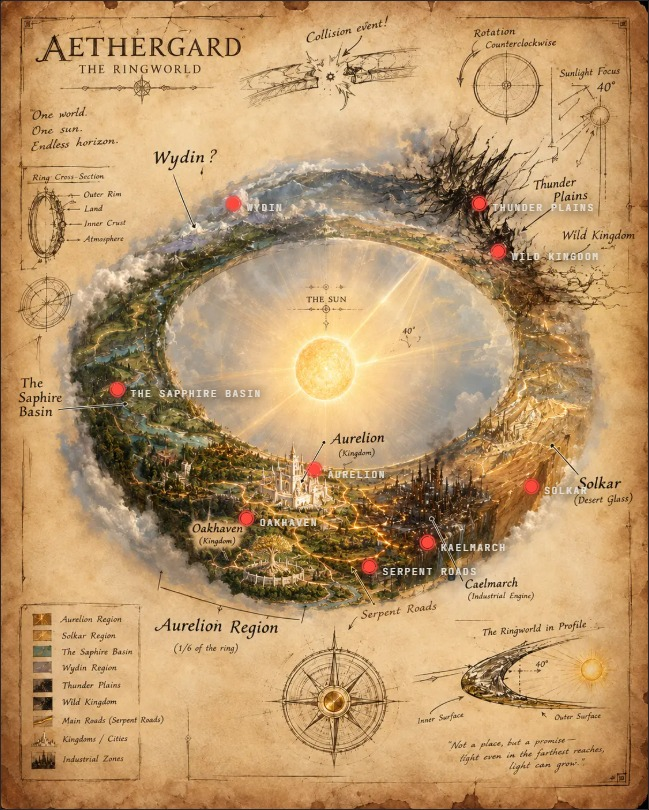
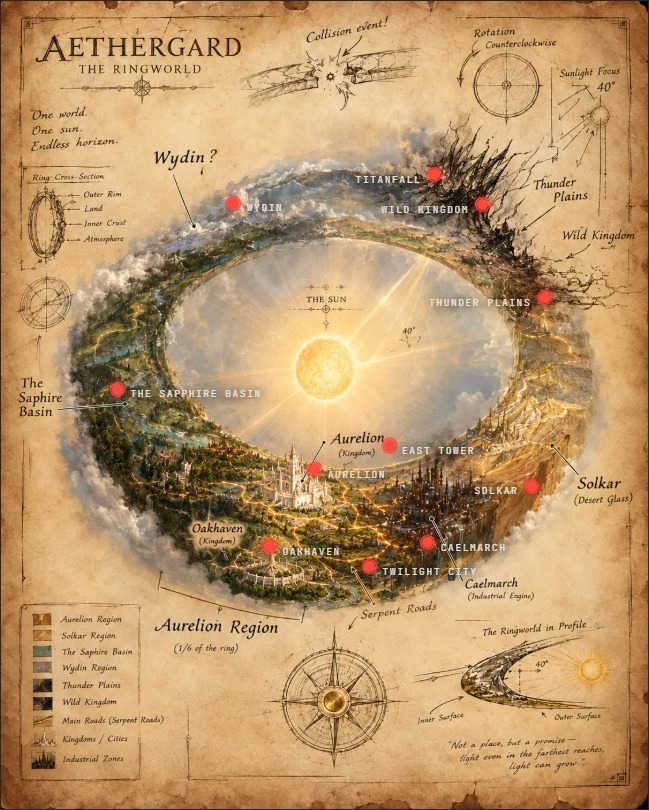
Put Titanfall on the broken rim and stop the edge labels clipping
The flat chart now reads Solkar, then the Thunder Plains as the storm
border, then the Wild Kingdom, matching the atlas. Titanfall sits in the
shattered material on the ring's upper right — the impact that opened it.
The "Collision event!" drawing is a margin schematic, not a place.

Pins past two thirds across put their label on the left, since the stage
clips anything running off the right edge.

diff --git a/tools/merged.js b/tools/merged.js
@@ -1,0 +1,53 @@
+let puppeteer; const path=require('path');
+const OUT=path.join(__dirname,'shots12'); require('fs').mkdirSync(OUT,{recursive:true});
+const sleep=ms=>new Promise(r=>setTimeout(r,ms));
+(async()=>{
+  puppeteer=(await import('puppeteer')).default;
+  const b=await puppeteer.launch({args:['--no-sandbox','--font-render-hinting=none']});
+  const out={}; const errs=[];
+  const p=await b.newPage();
+  p.on('pageerror',e=>errs.push('HOME JS: '+e.message));
+  p.on('console',m=>{const t=m.text(); if(m.type()==='error' && !/402|Failed to load resource/.test(t)) errs.push('HOME: '+t);});
+  await p.setViewport({width:1440,height:1000});
+  await p.goto('http://localhost:4321',{waitUntil:'networkidle0',timeout:60000});
+  await sleep(2500);
+  const H=await p.evaluate(()=>document.body.scrollHeight);
+  for(let y=0;y<H;y+=560){ await p.evaluate(v=>scrollTo(0,v),y); await sleep(160); }
+  await sleep(1200);
+  out.home=await p.evaluate(()=>({
+    plates:document.querySelectorAll('.plate').length,
+    brokenPlates:[...document.querySelectorAll('.plate img')].filter(i=>i.complete&&i.naturalWidth===0).length,
+    atlasNav:document.querySelector('.nav__links a[href="/atlas/"]')?.textContent,
+    atlasCard:!!document.querySelector('.atlas-invitation'),
+    pins:document.querySelectorAll('.pin').length,
+    ringIntro:document.querySelector('.ring__intro').innerText.includes('clockwise'),
+    zoomExists:!!document.querySelector('#zoom')
+  }));
+  // zoom still works after the merge
+  await p.evaluate(()=>document.querySelector('#platesCities .plate').click());
+  await sleep(1300);
+  out.zoom=await p.evaluate(()=>{
+    const st=document.querySelector('#zoomStage').getBoundingClientRect();
+    const ir=document.querySelector('#zoomImg').getBoundingClientRect();
+    return { open:document.querySelector('#zoom').hidden===false,
+             name:document.querySelector('#zoomName').textContent,
+             fits: ir.width<=st.width+1 && ir.height<=st.height+1 };
+  });
+  await p.evaluate(()=>document.querySelector('#zoomClose').click());
+  await p.close();
+
+  // the atlas the other session built must still work
+  const a=await b.newPage();
+  a.on('pageerror',e=>errs.push('ATLAS JS: '+e.message));
+  a.on('console',m=>{const t=m.text(); if(m.type()==='error' && !/402|Failed to load resource/.test(t)) errs.push('ATLAS: '+t);});
+  await a.setViewport({width:1440,height:900});
+  const resp=await a.goto('http://localhost:4321/atlas/',{waitUntil:'networkidle0',timeout:60000});
+  await sleep(4500);
+  out.atlas={ status:resp.status(), canvas:await a.evaluate(()=>!!document.querySelector('canvas')) };
+  await a.screenshot({path:path.join(OUT,'atlas.jpg'),quality:84,type:'jpeg'});
+  await a.close();
+
+  console.log(JSON.stringify(out,null,1));
+  console.log(errs.length?errs.join('\n'):'NO ERRORS');
+  await b.close();
+})();

diff --git a/public/app.js b/public/app.js
@@ -645,8 +645,8 @@ const REGIONS = [
     text: "A city in a mountain-shadowed valley, distinguished by its mirror-field. The Serpent Roads are the Ring’s road network, rather than a separate place." },
   { x: 60, y: 55, name: "East Tower", tag: "Sunward of Caelmarch",
     text: "A watchtower close to Caelmarch on the side facing the central sun." },
-  { x: 60, y: 22, name: "Titanfall", tag: "Scorched Ridge",
-    text: "An ancient impact site in the Scorched Ridge beside the Wild Kingdom." },
+  { x: 67, y: 21.5, name: "Titanfall", tag: "Impact site · Scorched Ridge",
+    text: "The impact that broke the Ring. It struck here, in the Scorched Ridge beside the Wild Kingdom, and the shattered material thrown out of the rim is still lying where it fell." },
 ];
 
 const ARTEFACTS = [
@@ -858,8 +858,10 @@ const PLATES = {
 (function ringMap() {
   const pins = $("#mapPins");
   if (!pins) return;
+  // Pins near the right edge put their label on the left, or the stage
+  // clips it.
   pins.innerHTML = REGIONS.map((r, i) => `
-    <button class="pin" type="button" data-i="${i}"
+    <button class="pin${r.x > 66 ? " pin--left" : ""}" type="button" data-i="${i}"
             style="left:${r.x}%;top:${r.y}%" aria-label="${r.name}">
       <span class="pin__dot" aria-hidden="true"></span>
       <span class="pin__name">${r.name}</span>

diff --git a/public/styles.css b/public/styles.css
@@ -414,6 +414,8 @@ em{ font-style:italic; }
 }
 .pin:hover .pin__dot,.pin:focus-visible .pin__dot,.pin.is-on .pin__dot{ transform:scale(1.35); }
 .pin:hover .pin__name,.pin:focus-visible .pin__name,.pin.is-on .pin__name{ opacity:1; transform:translateY(-50%); }
+.pin--left .pin__name{ left:auto; right:calc(50% + 13px); transform:translateY(-50%) translateX(6px); }
+.pin--left:hover .pin__name,.pin--left:focus-visible .pin__name,.pin--left.is-on .pin__name{ transform:translateY(-50%); }
 .pin.is-on .pin__dot{ background:var(--light); box-shadow:0 0 0 3px rgba(224,169,79,.28), 0 0 20px rgba(224,169,79,.95); }
 @media (max-width:640px){ .pin__name{ display:none; } .pin{ padding:10px; } }
 
